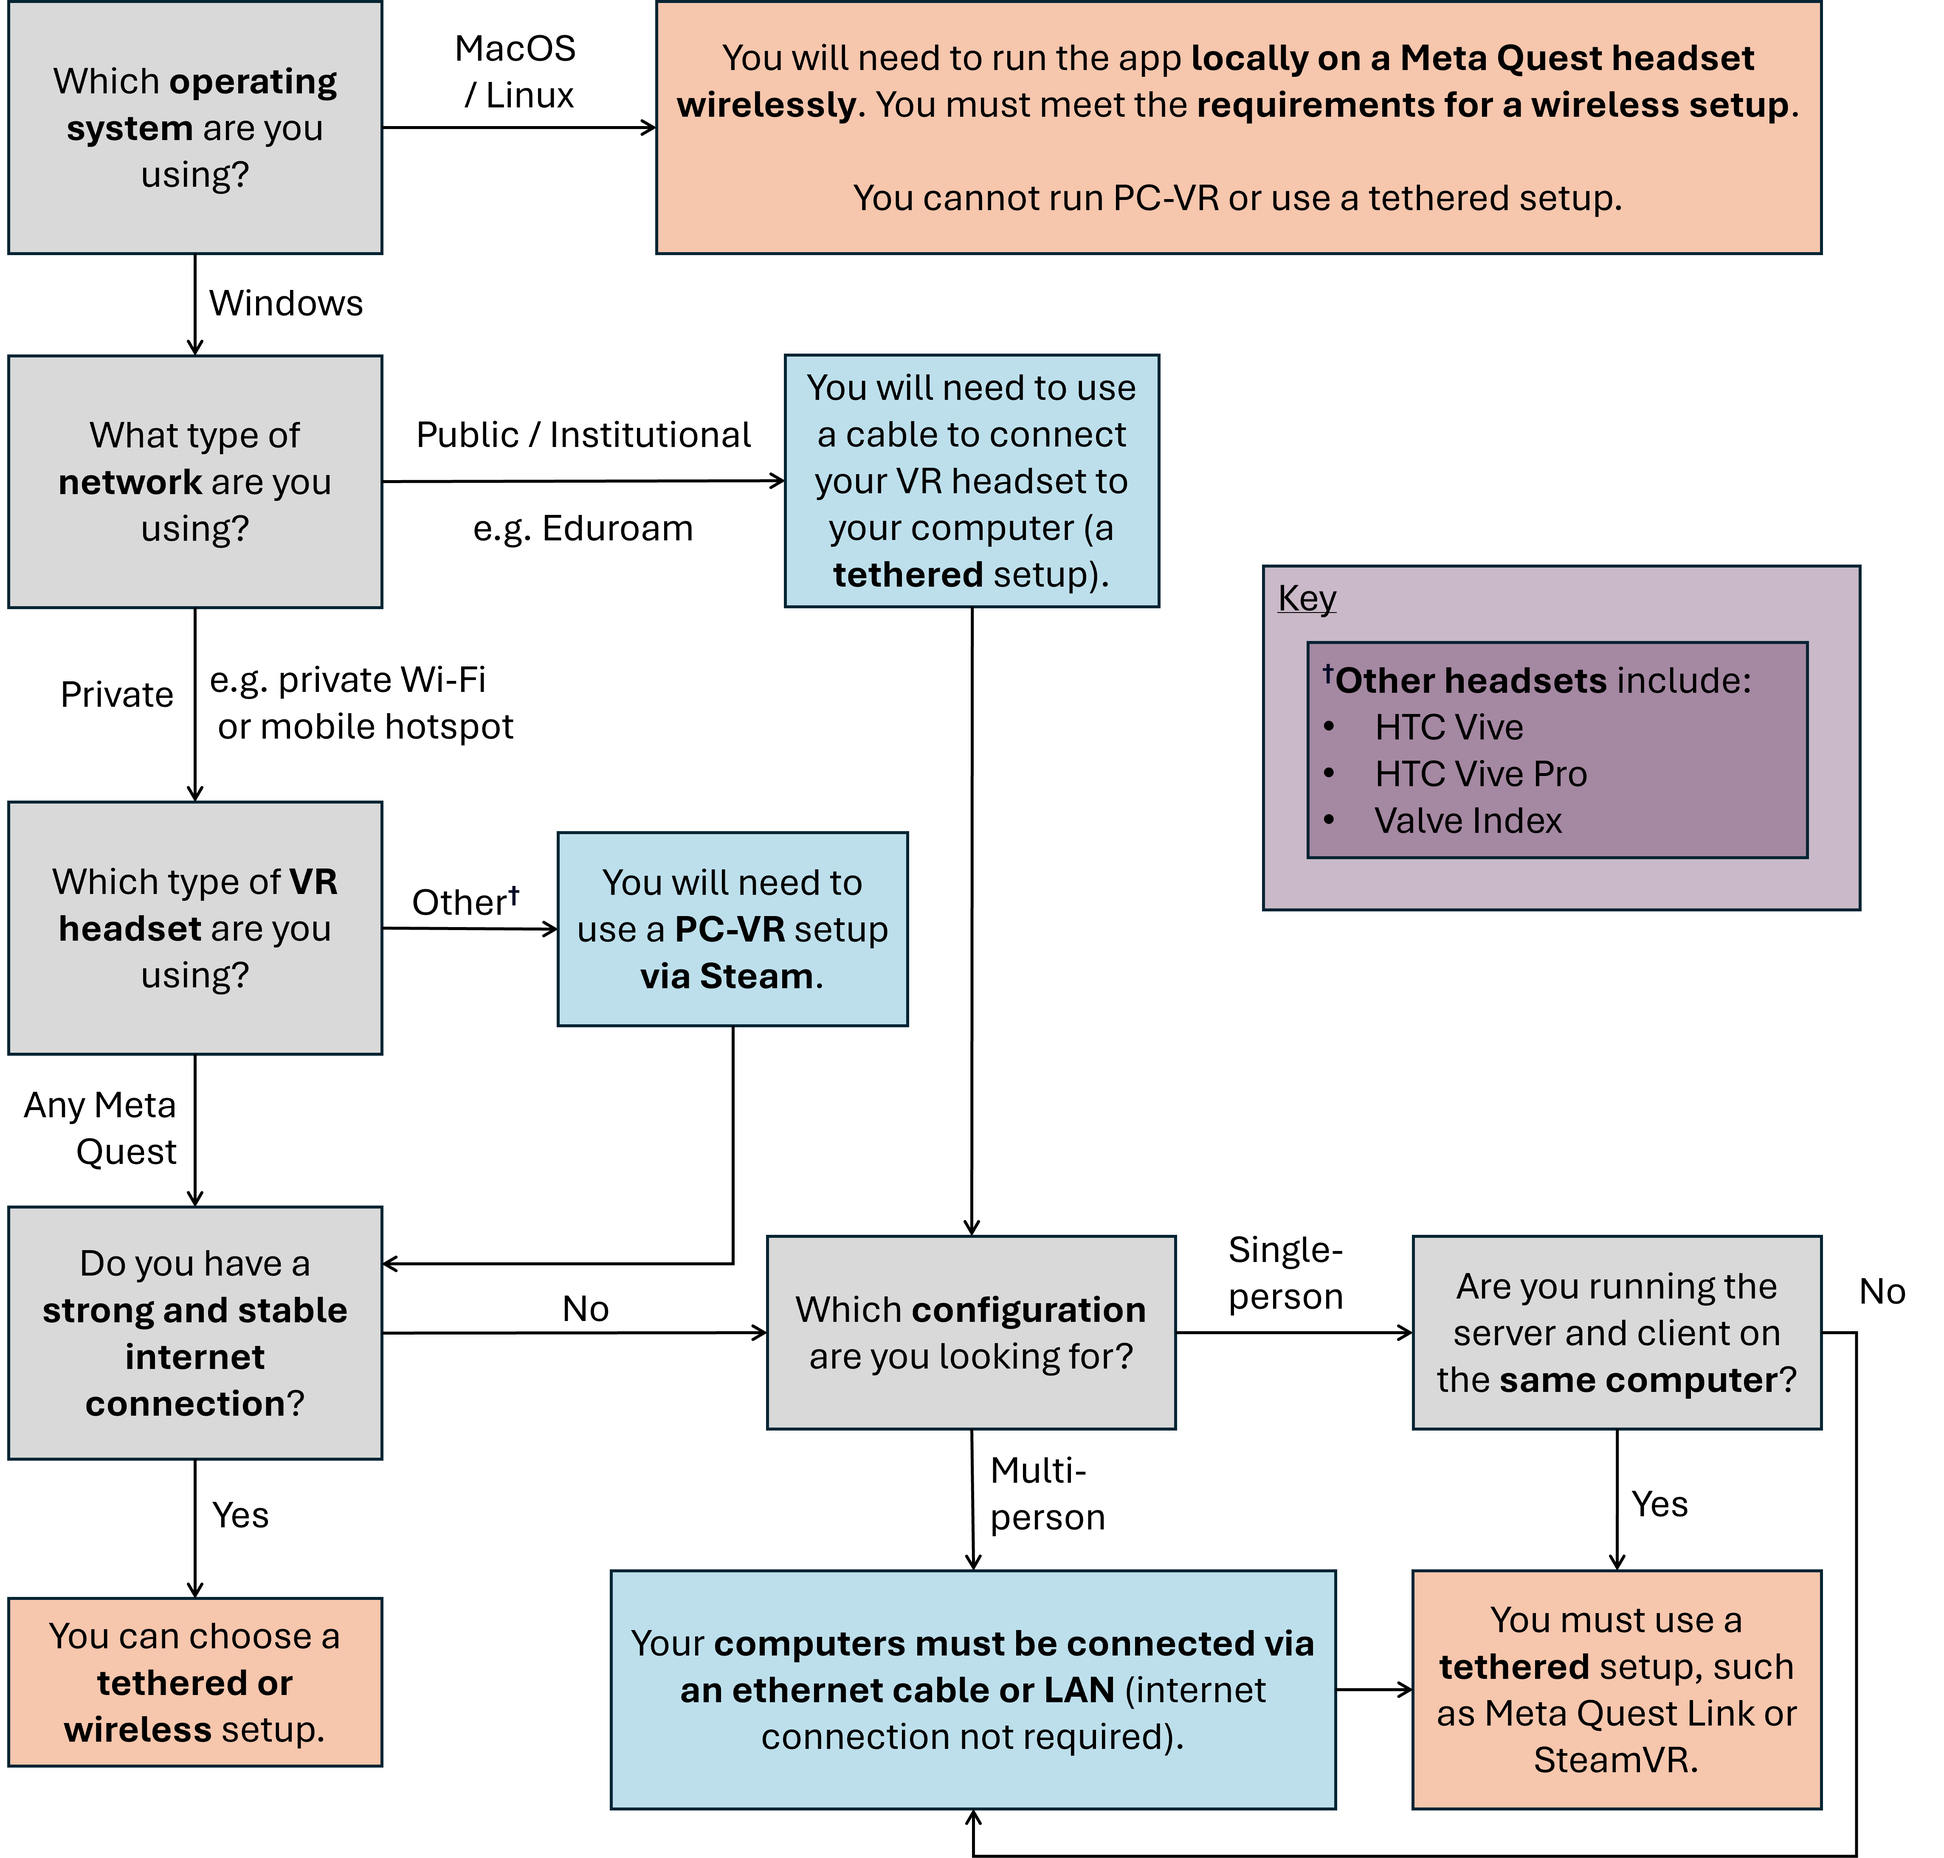
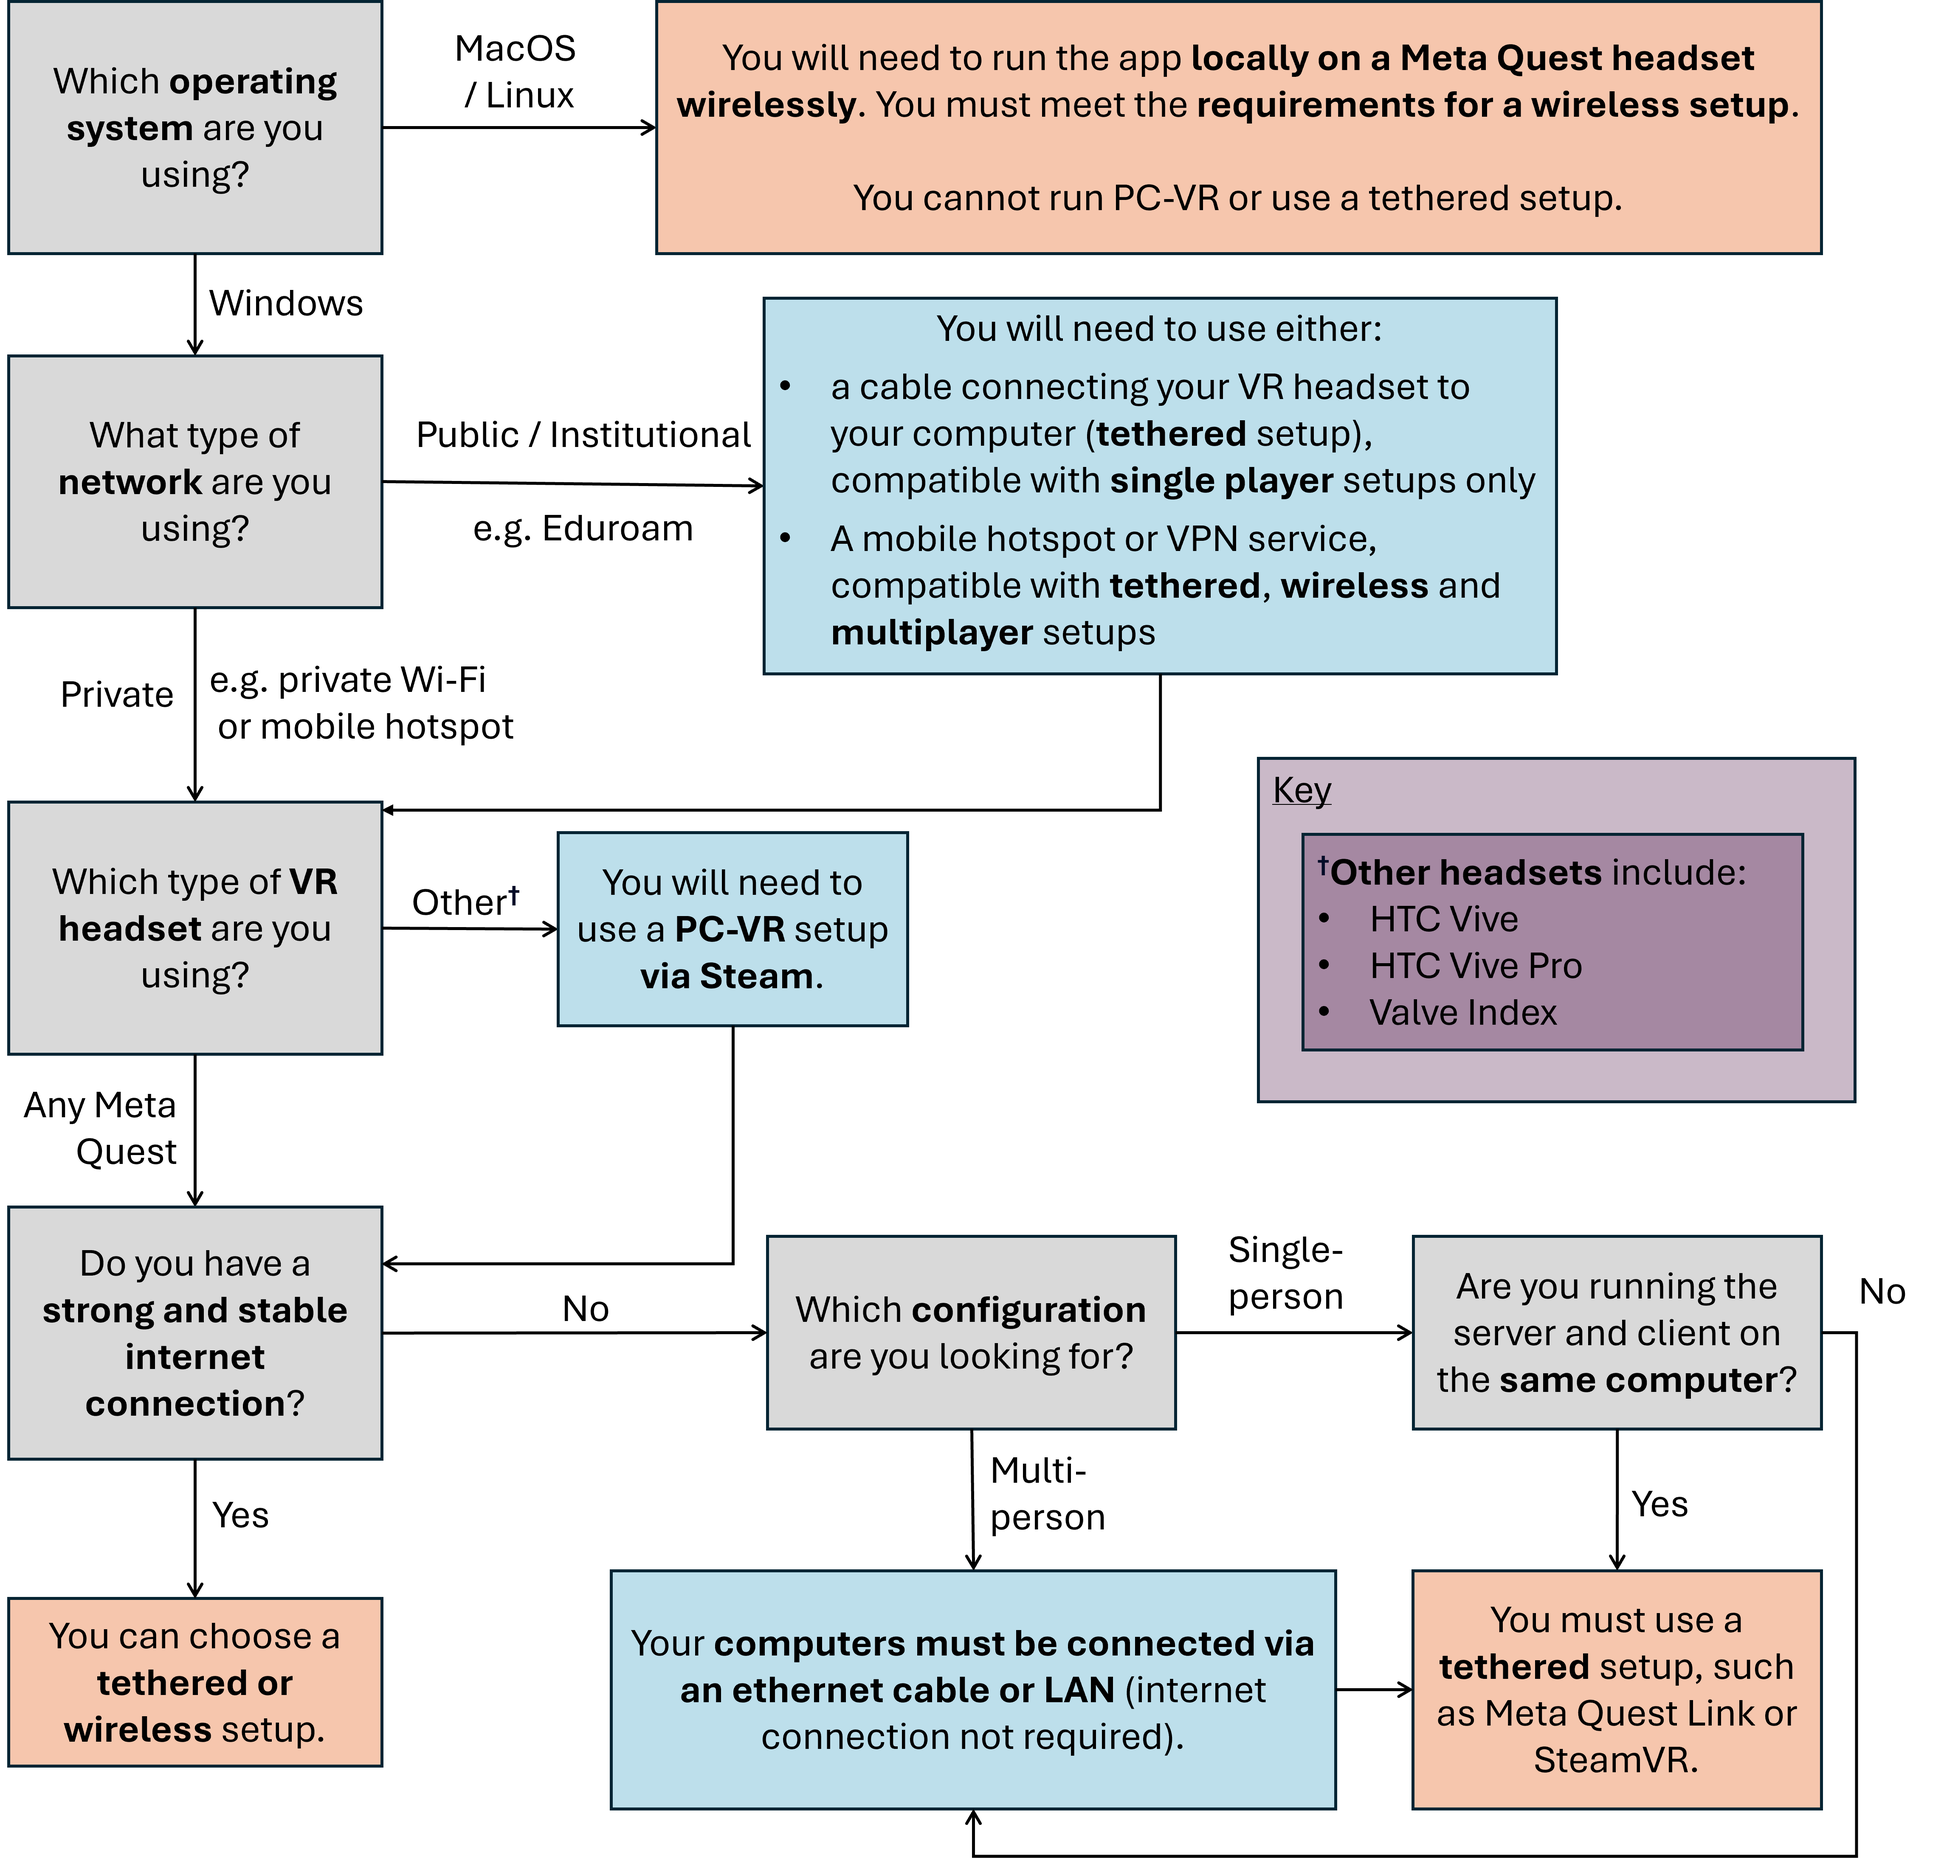
Added a note about institutional networks and vpn services (#182)
* Added a note about institutional networks and vpn services

* updated flowchart and fixed warning

* updated flowchart

* fixed flowchart size

* Splitted the vpn solution and technical explanation and moved the details further down.

* Fix typos + formatting, reformat text

Fix typos and formatting. Correct flow diagram and save missing image of flow diagram. Reformat the text to avoid using three admonitions in a row.

* Reword

* clarify that you need to type your IP when using a VPN

Clarify in the docs that you cannot use the autoconnect or discover services features when using a VPN, you must type your IP instead.

---------

Changed region(s): [[0.3124, 0.1554, 0.9683, 0.6214]]

diff --git a/source/tutorials/vrclient.rst b/source/tutorials/vrclient.rst
@@ -114,6 +114,9 @@ You have several options for connecting to a NanoVer server:
 * **Discover**: find all servers (using the default port) on the network and list them for the user to choose from
 * **Manual**: allow the user to specify the IP address and port of the server they wish to connect to and then, if found, connect to it
 
+Note that when using a VPN you cannot use the "Autoconnect" or "Discover" features.
+Instead, you must use the "Manual" option.
+
 |
 
 .. _vrclientinvrmenumainmenu:
@@ -208,6 +211,9 @@ Select from the dropdown options below for further information and to browse oth
     +----------------------+---------------------------------------------------------------------------------------------+
     | **Disconnect**       | If connected to a server, disconnect.                                                       |
     +----------------------+---------------------------------------------------------------------------------------------+
+
+    Note that when using a VPN you cannot use the "Autoconnect" or "Discover Services" features.
+    Instead, you must use the "Direct Connect" option.
 
 .. dropdown:: User
 
@@ -587,16 +593,27 @@ the type of network you have access to, your VR headset, and your desired config
 .. image::  /_static/VR_client_flow_diagram.png
   :width: 600
 
-.. admonition:: Key point
-
-    For a **wireless setup** you will need to have a strong and stable internet connection that allows communication over the network.
-    Note that this option is often not possible with public & institutional networks (e.g. Eduroam). 
-    Instead, you can use your mobile hotspot. In this case, please ensure that all devices are connected to the hotspot,
-    including the computer running the NanoVer server and your VR headset(s).
-
 .. admonition:: Key definition
 
     \ **Tethered**: using a cable to connect your VR headset to your computer.
+
+For a **wireless setup** you will need to have a strong and stable internet connection that allows communication over the network.
+Note that this option is **often not possible with public & institutional networks such as Eduroam** (see below for further details).
+In this case, you can **use either a VPN service or mobile hotspot**.
+You must ensure that all devices are connected to the same VPN or hotspot, including the computer running the NanoVer server and your VR headset(s).
+
+.. dropdown:: Further information about institutional networks (e.g.Eduroam)
+
+    Eduroam segments devices into different subnets (e.g. ``172.18.11.x`` vs. ``172.18.15.x``) and enforces security policies that block direct device-to-device communication. Key restrictions include:
+
+    * **Subnet isolation**: Traffic between subnets is filtered at the network layer
+    * **Client-to-client blocking**: Direct communication between devices on the same broadcast domain is prohibited
+    * **Multicast/broadcast limitations**: Discovery protocols (e.g. UDP broadcasts) are often disabled
+
+    One way to bypass these restrictions is to use a  virtual private network (VPN) service.
+    One such service that we tested is `Tailscale <https://tailscale.com/>`_ but there are many others available.
+    Note that when using a VPN you cannot use the "Autoconnect" or "Discover Services" features.
+    Instead, you must select "Direct Connect" (PC-VR menu) or "Manual" (in-VR menu) and type your IP address.
 
 |
 
